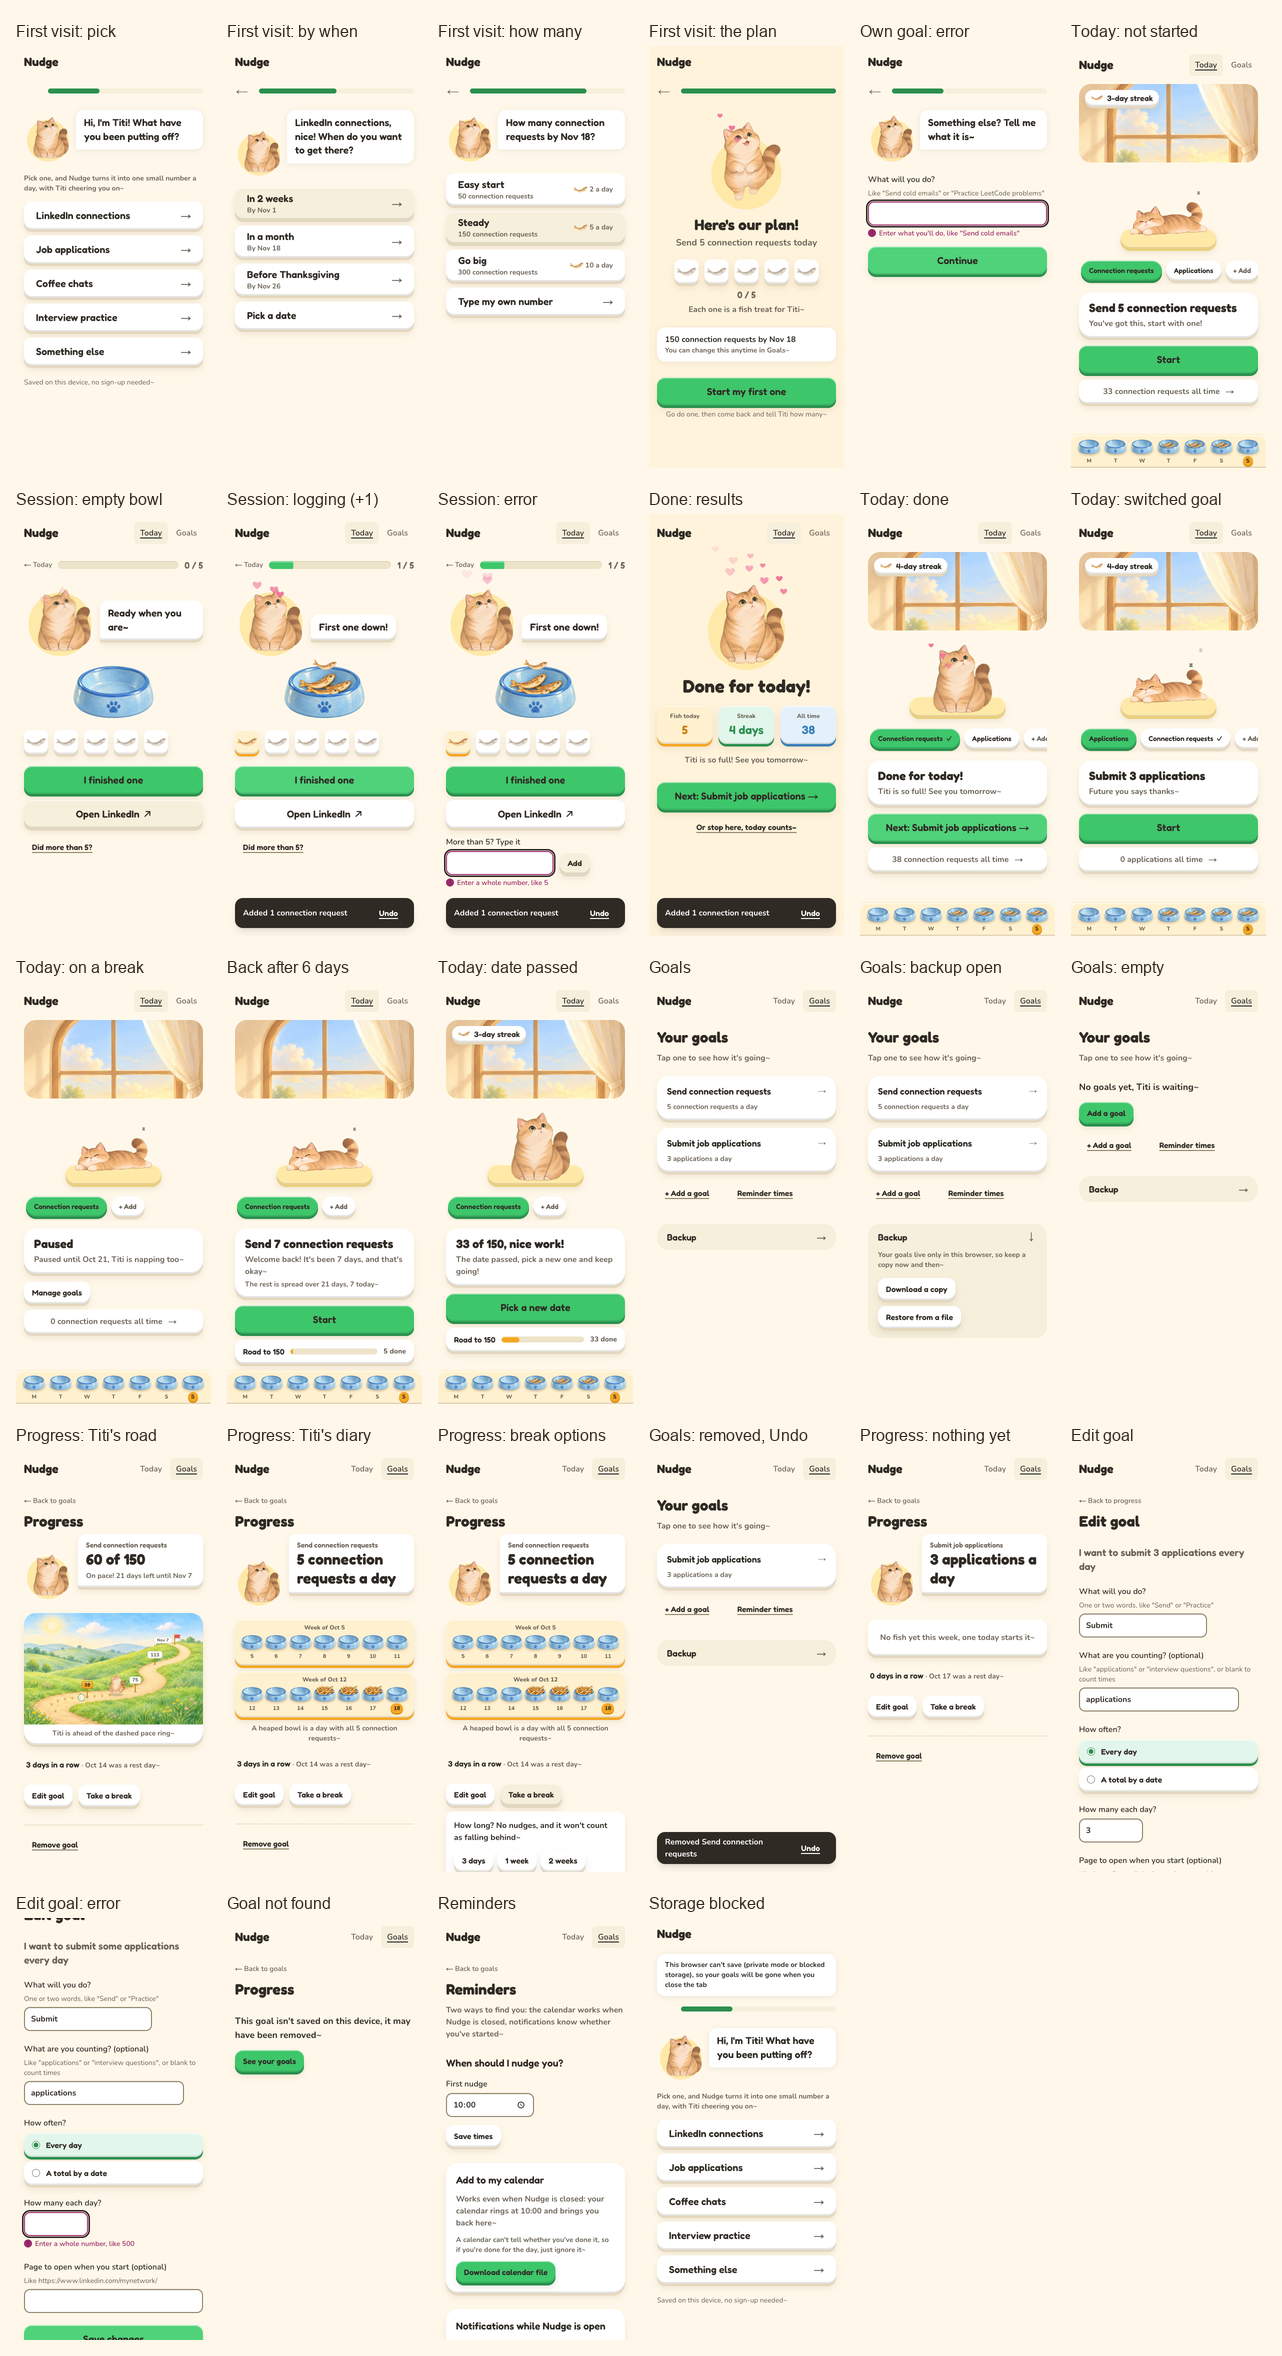
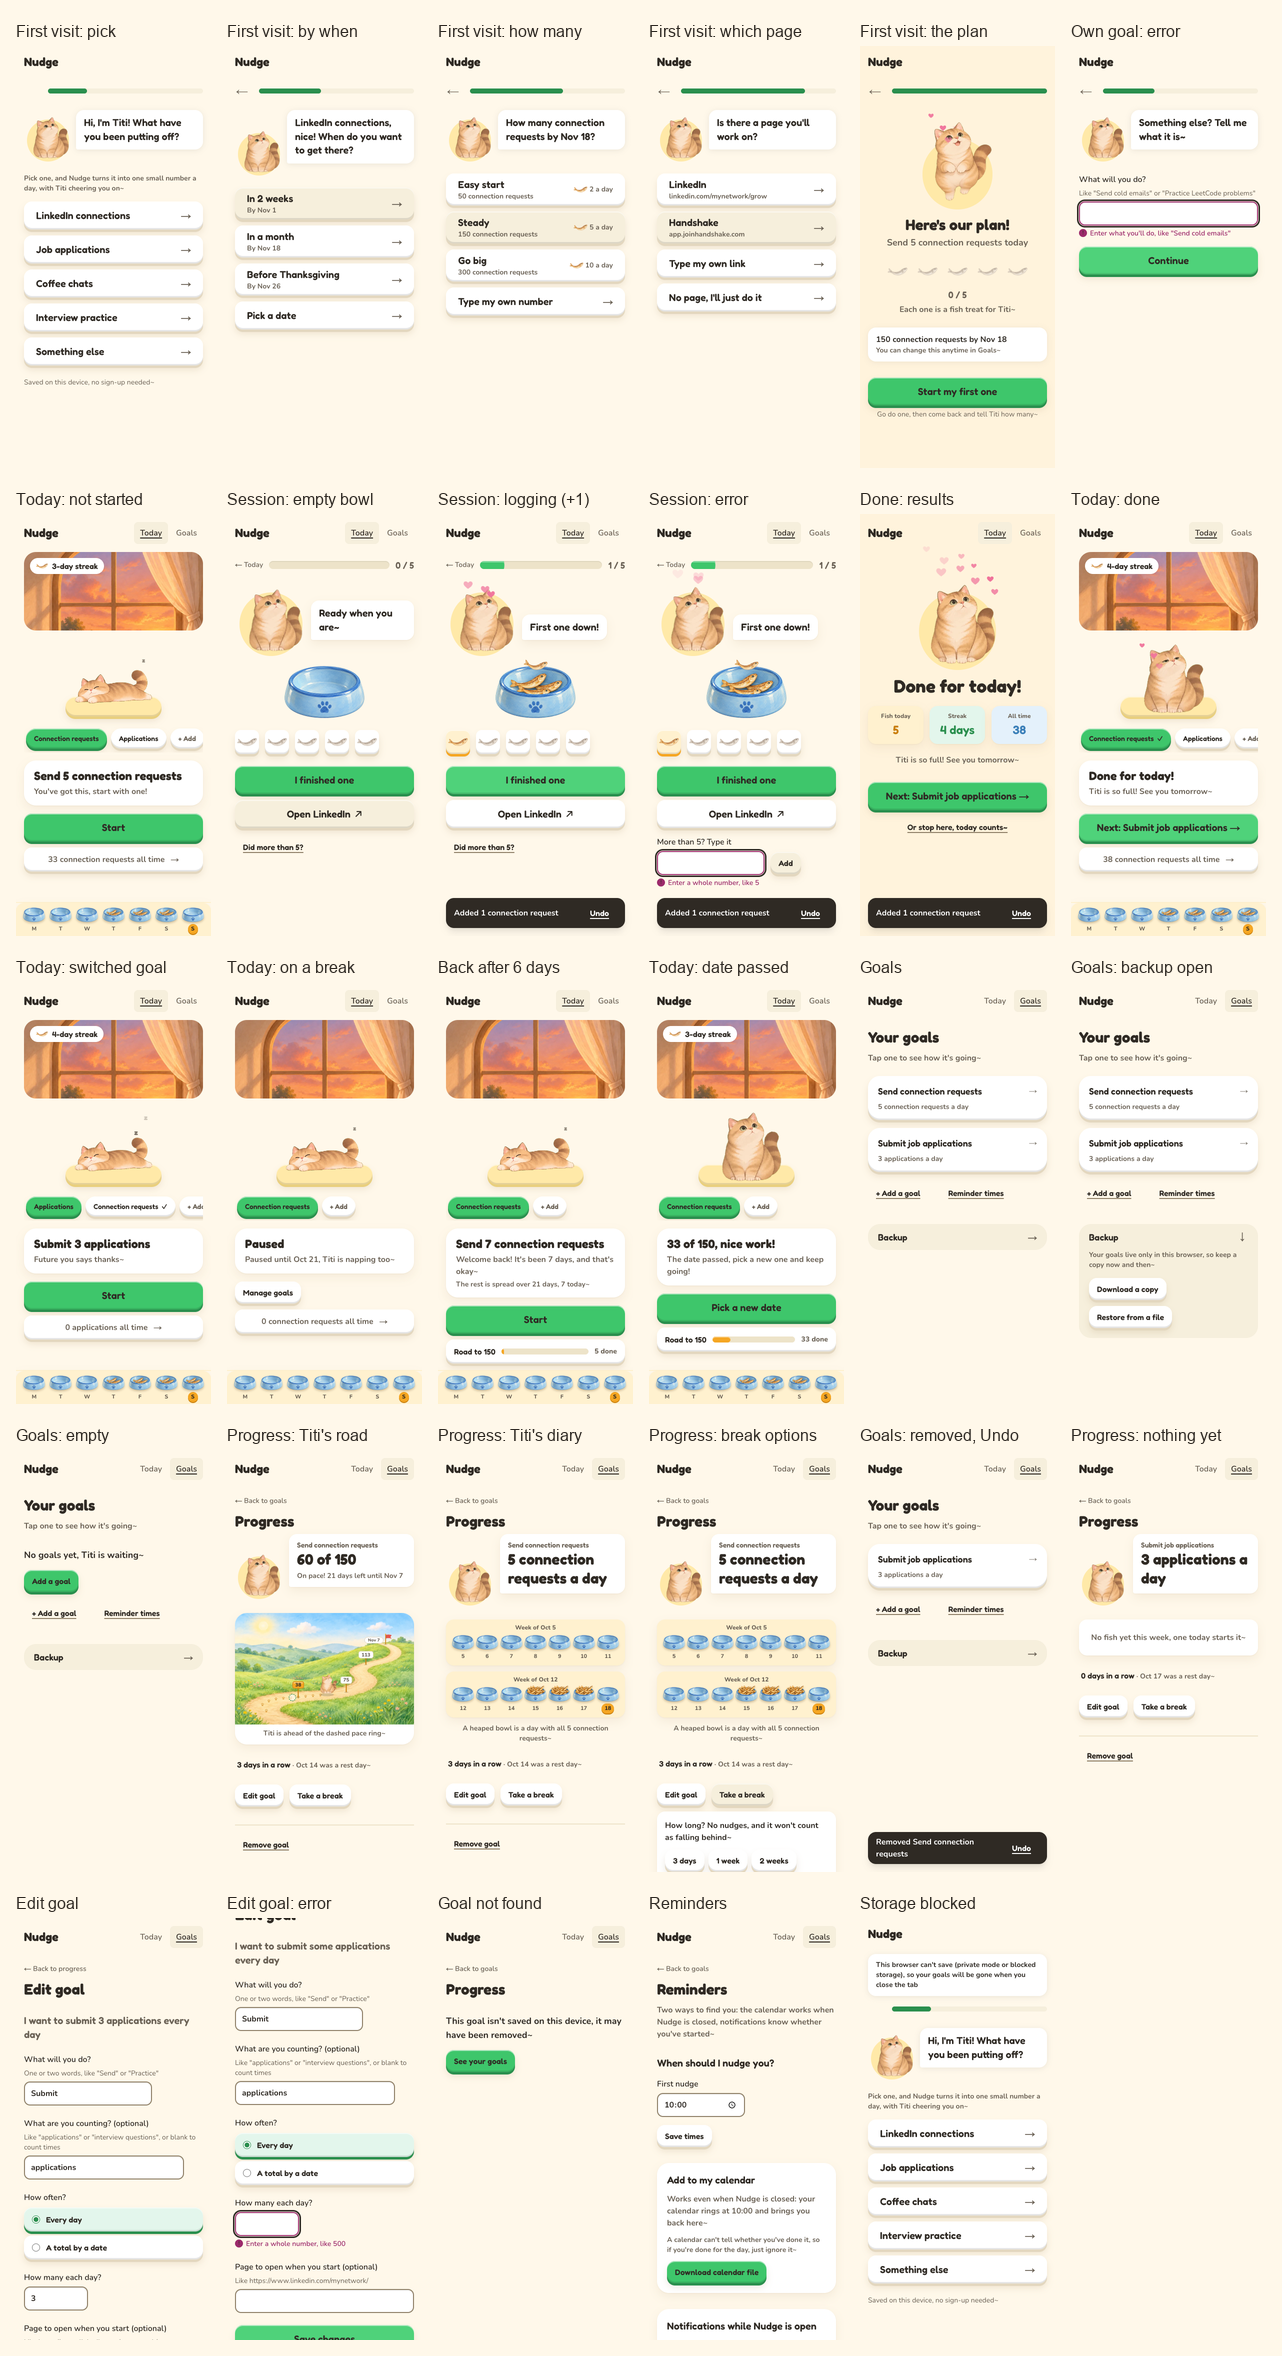
fix: clay means pressable; every read-only surface is flat

diff --git a/src/components/progress/Diary.tsx b/src/components/progress/Diary.tsx
@@ -5,11 +5,11 @@ import type { BowlDay } from "@/lib/scene";
 /** A daily goal as Titi's diary: the last weeks, one shelf each, a fish in every day this goal got something. */
 export function Diary({ weeks, target, unit }: { weeks: BowlDay[][]; target: number; unit: string }) {
   const any = weeks.some((w) => w.some((b) => b.fill !== "empty"));
-  if (!any) return <p className="clay rounded-2xl bg-surface px-5 py-6 text-center font-bold text-muted">No fish yet this week, one today starts it~</p>;
+  if (!any) return <p className="flat rounded-2xl bg-surface px-5 py-6 text-center font-bold text-muted">No fish yet this week, one today starts it~</p>;
   return (
     <figure className="flex flex-col gap-3">
       {weeks.map((week) => (
-        <div key={week[0].date} className="clay rounded-2xl bg-reward-soft px-3 pb-2 pt-2 [--lip:var(--color-reward)]">
+        <div key={week[0].date} className="flat rounded-2xl bg-reward-soft px-3 pb-2 pt-2">
           <p className="mb-1 text-center text-xs font-extrabold text-muted">Week of {formatShortDate(week[0].date)}</p>
           <ol aria-label={`Week of ${formatShortDate(week[0].date)}`} className="flex items-end gap-1">
             {week.map((b) => <ShelfBowl key={b.date} bowl={b} label="day" />)}

diff --git a/src/components/today/DoneToday.tsx b/src/components/today/DoneToday.tsx
@@ -24,16 +24,16 @@ interface Props {
 }
 
 const CARD_TINT = [
-  "bg-reward-soft [--lip:var(--color-reward)] text-reward-deep",
-  "bg-primary-soft [--lip:var(--color-lip)] text-lip",
-  "bg-[#e4f1fb] [--lip:var(--color-sky-deep)] text-sky-deep",
+  "bg-reward-soft text-reward-deep",
+  "bg-primary-soft text-lip",
+  "bg-[#e4f1fb] text-sky-deep",
 ];
 
 /** One of the three result cards: it pops in after the one before it and its number counts up. */
 function StatCard({ stat, index }: { stat: DoneStat; index: number }) {
   const shown = useCountUp(stat.value, 350 + index * 150);
   return (
-    <li className={`card-in clay flex flex-1 flex-col items-center rounded-2xl px-2 py-3 ${CARD_TINT[index]}`} style={{ ["--delay" as string]: `${0.2 + index * 0.15}s` }}>
+    <li className={`card-in flat flex flex-1 flex-col items-center rounded-2xl px-2 py-3 ${CARD_TINT[index]}`} style={{ ["--delay" as string]: `${0.2 + index * 0.15}s` }}>
       <span className="text-xs font-extrabold text-muted">{stat.label}</span>
       <span aria-hidden="true" className="mt-1 font-display text-2xl font-semibold tabular-nums">{shown}{stat.suffix}</span>
       <span className="sr-only">{stat.value}{stat.suffix}</span>

diff --git a/src/components/today/Room.tsx b/src/components/today/Room.tsx
@@ -56,7 +56,7 @@ export function ShelfBowl({ bowl, label = "letter" }: { bowl: BowlDay; label?: "
 function Shelf({ bowls }: { bowls: BowlDay[] }) {
   return (
     <div className="fixed inset-x-0 bottom-0 z-20 border-t-2 border-reward-soft bg-page/90 pb-[env(safe-area-inset-bottom)] backdrop-blur-sm sm:static sm:border-0 sm:bg-transparent sm:pb-0 sm:backdrop-blur-none">
-      <div className="clay mx-auto max-w-xl rounded-t-2xl bg-reward-soft px-3 pb-1 pt-1.5 [--lip:var(--color-reward)] sm:rounded-2xl sm:pb-2 sm:pt-2">
+      <div className="flat mx-auto max-w-xl rounded-t-2xl bg-reward-soft px-3 pb-1 pt-1.5 sm:rounded-2xl sm:pb-2 sm:pt-2">
         <p className="mb-1 text-center text-xs font-extrabold text-muted max-sm:sr-only">Titi&apos;s week, every goal counts!</p>
         <ol aria-label="Titi's week, every goal counts" className="flex items-end gap-1">
           {bowls.map((b) => <ShelfBowl key={b.date} bowl={b} />)}

diff --git a/src/components/reminders/CalendarCard.tsx b/src/components/reminders/CalendarCard.tsx
@@ -10,7 +10,7 @@ export function CalendarCard({ times }: { times: string[] }) {
   const [until, setUntil] = useState<string | null>(null);
 
   return (
-    <section aria-labelledby="calendar-title" className="clay flex flex-col gap-3 rounded-3xl bg-surface p-5">
+    <section aria-labelledby="calendar-title" className="flat flex flex-col gap-3 rounded-3xl bg-surface p-5">
       <h2 id="calendar-title" className="font-display text-xl font-semibold text-ink">Add to my calendar</h2>
       <p className="font-bold text-muted">Works even when Nudge is closed: your calendar rings at {times.join(", ")} and brings you back here~</p>
       <p className="text-sm font-bold text-muted">A calendar can&apos;t tell whether you&apos;ve done it, so if you&apos;re done for the day, just ignore it~</p>

diff --git a/src/components/progress/ProgressScreen.tsx b/src/components/progress/ProgressScreen.tsx
@@ -49,7 +49,7 @@ export function ProgressScreen({ id }: { id: string }) {
     <div className="flex flex-col gap-7 pt-2">
       <div className="flex items-end gap-3">
         <CatArt mood={plan.status === "done" || plan.status === "complete" ? "celebrate" : "idle"} className="w-24 shrink-0" />
-        <div className="clay mb-6 flex-1 rounded-2xl rounded-bl-sm bg-surface px-4 py-3">
+        <div className="flat mb-6 flex-1 rounded-2xl rounded-bl-sm bg-surface px-4 py-3">
           <p className="font-display text-sm font-semibold text-muted">{goal.title}</p>
           <p className="font-display text-3xl font-bold leading-tight text-ink tabular-nums">
             {byDate ? `${plan.doneTotal} of ${goal.target}` : `${formatCount(goal.target, goal.unit)} a day`}

diff --git a/src/components/progress/Road.tsx b/src/components/progress/Road.tsx
@@ -113,7 +113,7 @@ export function Road({ goal, story }: { goal: Goal; story: RoadStory }) {
   const label = `${story.done} of ${goal.target} ${goal.unit}: ${Math.round(story.at * 100)}% of the road, ${story.ahead ? "ahead of" : "behind"} the steady pace`;
   const cat = 230 * cs;
   return (
-    <figure className="clay overflow-hidden rounded-3xl bg-surface">
+    <figure className="flat overflow-hidden rounded-3xl bg-surface">
       <div className="relative">
         {/* eslint-disable-next-line @next/next/no-img-element -- painted art, sized by the card */}
         <img src="/cat/road.webp" alt="" aria-hidden="true" width={W} height={H} className="block h-auto w-full" />

diff --git a/src/components/today/StreakChip.tsx b/src/components/today/StreakChip.tsx
@@ -1,7 +1,7 @@
 /** Days in a row, always in the same corner of Today, like Duolingo's flame, marked with a fish treat. Only shown once there is a run. */
 export function StreakChip({ days }: { days: number }) {
   return (
-    <p className="clay flex items-center gap-2 rounded-full bg-surface px-3 py-1 font-display text-base font-semibold text-ink">
+    <p className="flat flex items-center gap-2 rounded-full bg-surface px-3 py-1 font-display text-base font-semibold text-ink">
       {/* eslint-disable-next-line @next/next/no-img-element -- tiny decorative icon */}
       <img src="/cat/fish.png" alt="" aria-hidden="true" className="w-6" />
       {days}-day streak

diff --git a/src/components/progress/GoalActions.tsx b/src/components/progress/GoalActions.tsx
@@ -37,7 +37,7 @@ export function GoalActions({ goal, today }: { goal: Goal; today: string }) {
       </div>
       {pause && <p className="text-sm font-bold text-muted">Taking a break until {formatShortDate(pause.to)}, no nudges and nothing counts as behind~</p>}
       {pausing && !pause && (
-        <div className="clay flex flex-col gap-3 rounded-2xl bg-surface p-4">
+        <div className="flat flex flex-col gap-3 rounded-2xl bg-surface p-4">
           <p className="font-bold text-ink">How long? No nudges, and it won&apos;t count as falling behind~</p>
           <div className="flex flex-wrap gap-2">
             {PAUSE_OPTIONS.map((o) => (

diff --git a/src/components/goals/BackupSection.tsx b/src/components/goals/BackupSection.tsx
@@ -56,7 +56,7 @@ export function BackupSection({ data }: { data: AppData }) {
         </div>
         {error && <p role="alert" className="text-sm font-bold text-danger">{error}</p>}
         {pending && (
-          <div role="alert" className="clay flex flex-col gap-3 rounded-2xl bg-surface p-4">
+          <div role="alert" className="flat flex flex-col gap-3 rounded-2xl bg-surface p-4">
             <p className="font-bold text-ink">
               This replaces everything here with the {pending.goals.length === 1 ? "1 goal" : `${pending.goals.length} goals`} in the file
             </p>

diff --git a/src/app/globals.css b/src/app/globals.css
@@ -57,6 +57,11 @@ body {
     0 5px 0 var(--lip, var(--color-hairline)),
     0 9px 14px rgba(120, 80, 20, 0.12);
 }
+/* Flat: a resting surface (cards, bubbles, shelves, badges). Never pressable, so no lip and no highlight: on this app
+   a lip means "you can press this" (user, 2026-10-18, after a card was taken for a button). */
+.flat {
+  box-shadow: 0 1px 2px rgba(120, 80, 20, 0.06), 0 8px 20px rgba(120, 80, 20, 0.08);
+}
 /* Pressed: it sinks onto its lip. */
 .clay-press {
   transition: transform 120ms cubic-bezier(0.23, 1, 0.32, 1), box-shadow 120ms cubic-bezier(0.23, 1, 0.32, 1);

diff --git a/src/components/reminders/NotificationsCard.tsx b/src/components/reminders/NotificationsCard.tsx
@@ -37,7 +37,7 @@ export function NotificationsCard({ on, times }: { on: boolean; times: string[] 
   }
 
   return (
-    <section aria-labelledby="notify-title" className="clay flex flex-col gap-3 rounded-3xl bg-surface p-5">
+    <section aria-labelledby="notify-title" className="flat flex flex-col gap-3 rounded-3xl bg-surface p-5">
       <h2 id="notify-title" className="font-display text-xl font-semibold text-ink">Notifications while Nudge is open</h2>
       <p className="font-bold text-muted">With a Nudge tab open, I nudge you only until you start, with one last call at 22:30~</p>
 

diff --git a/src/components/today/TodayHome.tsx b/src/components/today/TodayHome.tsx
@@ -197,7 +197,7 @@ export function TodayHome({
     <section aria-labelledby={`goal-${goal.id}`} className="flex flex-col">
       <Room bowls={bowls} cat={cat} corner={corner}>
         <GoalTabs goals={goals} current={goal.id} onPick={onPick} />
-        <div className="clay relative w-full rounded-3xl bg-surface px-5 py-4">
+        <div className="flat relative w-full rounded-3xl bg-surface px-5 py-4">
           <ScreenHeading
             id={`goal-${goal.id}`}
             className="font-display text-2xl font-bold leading-tight text-ink [text-wrap:balance]"
